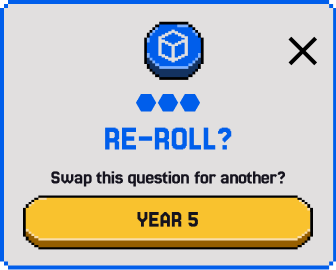
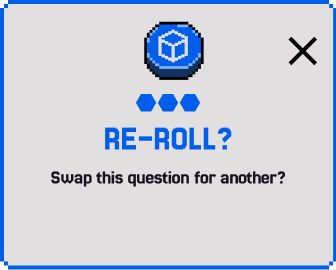
update reroll popup with separate button asset

Changed region(s): [[0.0595, 0.7111, 0.9524, 0.9481]]

diff --git a/qr/style.css b/qr/style.css
@@ -229,29 +229,45 @@ body.solved #correct { display: flex; }
 #popup_box {
   position: relative;
   width: 336px;
-  height: 299px;
-  background: url(assets/popup-reroll.png) no-repeat;
+  height: 270px;
+  background: url(assets/popup-reroll.png) no-repeat center / 100% 100%;
+  image-rendering: pixelated;
 }
 
-#popup_close, #popup_yes {
+#popup_close {
   position: absolute;
+  top: 30px;
+  right: 12px;
+  width: 44px;
+  height: 44px;
   border: none;
   background: none;
   cursor: pointer;
 }
 
-#popup_close {
-  top: 30px;
-  right: 12px;
-  width: 44px;
-  height: 44px;
+#popup_yes {
+  position: absolute;
+  top: 192px;
+  left: 23px;
+  box-sizing: border-box;
+  width: 290px;
+  height: 54px;
+  padding-bottom: 9px;
+  border: none;
+  background: url(assets/button-yellow.svg) no-repeat center / 100% 100%;
+  color: var( --new-background );
+  font-family: 'Jersey 25', system-ui;
+  font-size: 24px;
+  line-height: 0.66;
+  letter-spacing: -0.019em;
+  text-align: center;
+  cursor: pointer;
 }
 
-#popup_yes {
-  top: 224px;
-  left: 24px;
-  width: 288px;
-  height: 48px;
+#popup_yes:active {
+  background-image: url(assets/button-yellow-pressed.svg);
+  padding-bottom: 0;
+  padding-top: 9px;
 }
 
 #overlay {

diff --git a/ar/style.css b/ar/style.css
@@ -181,29 +181,45 @@ body {
 #popup_box {
   position: relative;
   width: 336px;
-  height: 299px;
-  background: url(assets/popup-reroll.png) no-repeat;
+  height: 270px;
+  background: url(assets/popup-reroll.png) no-repeat center / 100% 100%;
+  image-rendering: pixelated;
 }
 
-#popup_close, #popup_yes {
+#popup_close {
   position: absolute;
+  top: 30px;
+  right: 12px;
+  width: 44px;
+  height: 44px;
   border: none;
   background: none;
   cursor: pointer;
 }
 
-#popup_close {
-  top: 30px;
-  right: 12px;
-  width: 44px;
-  height: 44px;
+#popup_yes {
+  position: absolute;
+  top: 192px;
+  left: 23px;
+  box-sizing: border-box;
+  width: 290px;
+  height: 54px;
+  padding-bottom: 9px;
+  border: none;
+  background: url(assets/button-yellow.svg) no-repeat center / 100% 100%;
+  color: var( --new-background );
+  font-family: 'Jersey 25', system-ui;
+  font-size: 24px;
+  line-height: 0.66;
+  letter-spacing: -0.019em;
+  text-align: center;
+  cursor: pointer;
 }
 
-#popup_yes {
-  top: 224px;
-  left: 24px;
-  width: 288px;
-  height: 48px;
+#popup_yes:active {
+  background-image: url(assets/button-yellow-pressed.svg);
+  padding-bottom: 0;
+  padding-top: 9px;
 }
 
 #overlay {

diff --git a/input/style.css b/input/style.css
@@ -167,29 +167,45 @@ body {
 #popup_box {
   position: relative;
   width: 336px;
-  height: 299px;
-  background: url(assets/popup-reroll.svg) no-repeat;
+  height: 270px;
+  background: url(assets/popup-reroll.png) no-repeat center / 100% 100%;
+  image-rendering: pixelated;
 }
 
-#popup_close, #popup_yes {
+#popup_close {
   position: absolute;
+  top: 30px;
+  right: 12px;
+  width: 44px;
+  height: 44px;
   border: none;
   background: none;
   cursor: pointer;
 }
 
-#popup_close {
-  top: 30px;
-  right: 12px;
-  width: 44px;
-  height: 44px;
+#popup_yes {
+  position: absolute;
+  top: 192px;
+  left: 23px;
+  box-sizing: border-box;
+  width: 290px;
+  height: 54px;
+  padding-bottom: 9px;
+  border: none;
+  background: url(assets/button-yellow.svg) no-repeat center / 100% 100%;
+  color: var( --new-background );
+  font-family: 'Jersey 25', system-ui;
+  font-size: 24px;
+  line-height: 0.66;
+  letter-spacing: -0.019em;
+  text-align: center;
+  cursor: pointer;
 }
 
-#popup_yes {
-  top: 224px;
-  left: 24px;
-  width: 288px;
-  height: 48px;
+#popup_yes:active {
+  background-image: url(assets/button-yellow-pressed.svg);
+  padding-bottom: 0;
+  padding-top: 9px;
 }
 
 #overlay {

diff --git a/ar/index.html b/ar/index.html
@@ -52,7 +52,7 @@
   <div id="overlay">
     <div id="popup_box">
       <button id="popup_close"></button>
-      <button id="popup_yes"></button>
+      <button id="popup_yes">YES</button>
     </div>
   </div>
   <div id="hint_box">

diff --git a/qr/index.html b/qr/index.html
@@ -51,7 +51,7 @@
   <div id="overlay">
     <div id="popup_box">
       <button id="popup_close"></button>
-      <button id="popup_yes"></button>
+      <button id="popup_yes">YES</button>
     </div>
   </div>
   <div id="hint_box">

diff --git a/input/index.html b/input/index.html
@@ -59,7 +59,7 @@
   <div id="overlay">
     <div id="popup_box">
       <button id="popup_close"></button>
-      <button id="popup_yes"></button>
+      <button id="popup_yes">YES</button>
     </div>
   </div>
   <div id="oops">
